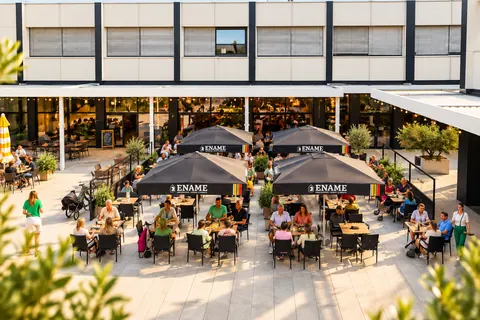
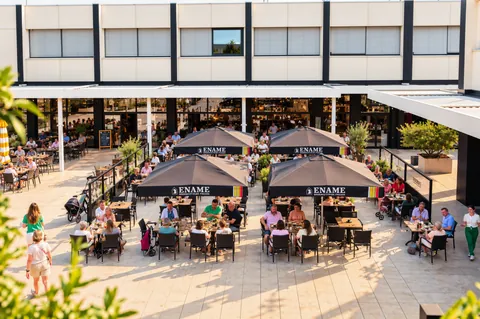
v2.7: nieuwe hero-foto (terras van boven), webp desktop 480–1920 + mobiele uitsnede 480–1080, og.jpg vernieuwd, menupaneel naar interieur

diff --git a/src/App.tsx b/src/App.tsx
@@ -79,8 +79,8 @@ const FB_URL = 'https://www.facebook.com/share/1GrMia19oQ/';
 
 // Echte foto's van de zaak (WebP, meerdere breedtes).
 const IMG: Record<string, { w: number[]; alt: string }> = {
-  hero: { w: [480, 800, 1280, 1536], alt: 'Zonnig terras van ’t Peerdeke in Het Pand, vol gasten onder de parasols' },
-  'hero-m': { w: [480, 640], alt: 'Zonnig terras van ’t Peerdeke in Het Pand, vol gasten onder de parasols' },
+  hero: { w: [480, 800, 1280, 1920], alt: 'Zonnig terras van ’t Peerdeke in Het Pand, vol gasten onder de parasols' },
+  'hero-m': { w: [480, 640, 828, 1080], alt: 'Zonnig terras van ’t Peerdeke in Het Pand, vol gasten onder de parasols' },
   uithangbord: { w: [480, 800, 1086], alt: 'Uithangbord van taverne ’t Peerdeke met de paardenkop' },
   wafels: { w: [480, 800, 1086], alt: 'Twee Brusselse wafels met poedersuiker, vanille-ijs en slagroom' },
   interieur: { w: [480, 800, 1448], alt: 'Interieur met lederen stoelen, houten tafels en grote ramen naar het plein' },
@@ -246,7 +246,7 @@ function Header() {
             </ul>
             <div className="menu__aside">
               <div className="menu__img">
-                <Foto img="terras" mode="static" sizes="360px" decorative />
+                <Foto img="interieur" mode="static" sizes="360px" decorative />
               </div>
               <div className="menu__meta">
                 <span className="eyebrow dim">Taverne in Het Pand</span>

diff --git a/index.html b/index.html
@@ -20,8 +20,8 @@
     <meta property="og:image:height" content="630" />
     <meta property="og:image:alt" content="Zonnig terras van ’t Peerdeke in Het Pand, Waregem" />
     <meta name="twitter:card" content="summary_large_image" />
-    <link rel="preload" as="image" type="image/webp" imagesrcset="/img/hero-m-480.webp 480w, /img/hero-m-640.webp 640w" imagesizes="100vw" media="(max-width: 767px)" />
-    <link rel="preload" as="image" type="image/webp" imagesrcset="/img/hero-480.webp 480w, /img/hero-800.webp 800w, /img/hero-1280.webp 1280w, /img/hero-1536.webp 1536w" imagesizes="100vw" media="(min-width: 768px)" />
+    <link rel="preload" as="image" type="image/webp" imagesrcset="/img/hero-m-480.webp 480w, /img/hero-m-640.webp 640w, /img/hero-m-828.webp 828w, /img/hero-m-1080.webp 1080w" imagesizes="100vw" media="(max-width: 767px)" />
+    <link rel="preload" as="image" type="image/webp" imagesrcset="/img/hero-480.webp 480w, /img/hero-800.webp 800w, /img/hero-1280.webp 1280w, /img/hero-1920.webp 1920w" imagesizes="100vw" media="(min-width: 768px)" />
 
     <link rel="preconnect" href="https://fonts.googleapis.com" />
     <link rel="preconnect" href="https://fonts.gstatic.com" crossorigin />
